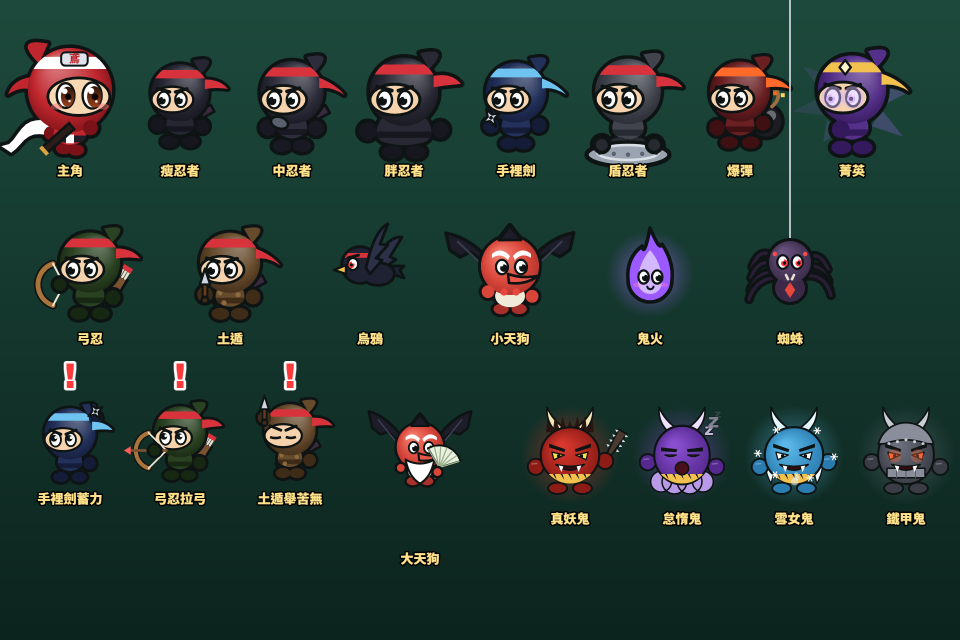
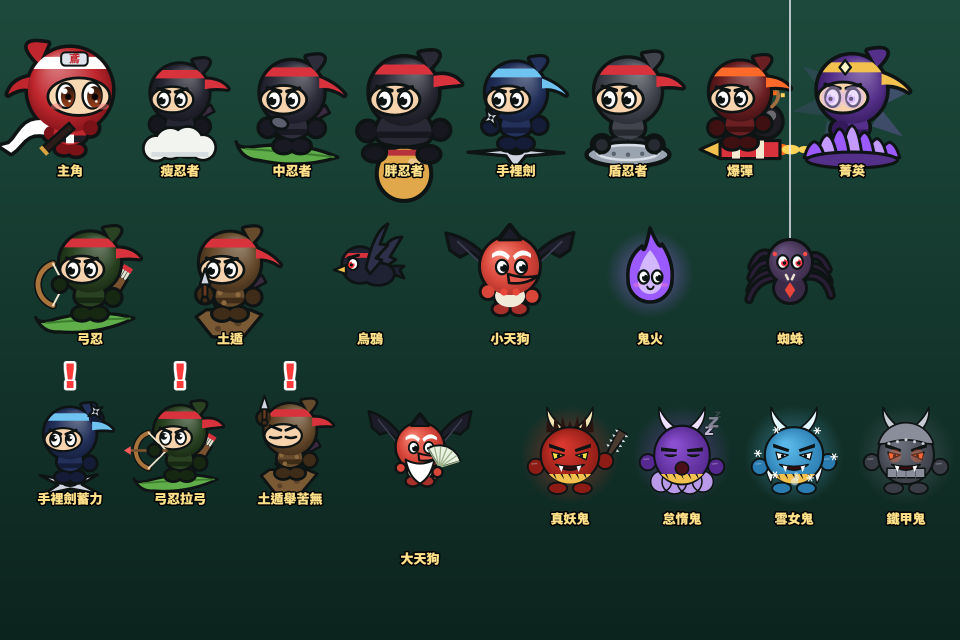
敵忍者改用乘坐物＋依移動方向傾斜（v22）：瘦忍者踩雲、中忍者與弓忍踩竹葉、胖忍者坐葫蘆、手裡劍忍者站旋轉大手裡劍、爆彈忍者騎火箭、菁英坐紫焰蓮台、土遁站土塊；左右飄時身體往移動方向傾斜，快速移動留殘影；附移動方式比較頁

diff --git a/art.js b/art.js
@@ -49,12 +49,84 @@ function foeEye(c, x, y, rx, ry, P, warn, blink, glow) {
   aCirc(c, x - rx * .05, y - ry * .3, rx * .26); c.fillStyle = '#fff'; c.fill();
   c.restore();
 }
+// 敵忍者的移動方式（walk = 舊的擺腳）
+// ride 乘坐物、levit 忍術懸浮、kite 抓風箏、rope 垂繩；FOE_TILT 依移動方向傾斜
+let FOE_MOVE = 'ride', FOE_TILT = true;   // 遊戲採用方案 A＋E；其餘方式保留給 design/enemy-move.html 比較
+const FOE_RIDE = { 0: 'cloud', 1: 'leaf', 2: 'gourd', 3: 'star', 5: 'rocket', 6: 'lotus', 9: 'leaf', 11: 'rock' };
+function foeRideBack(c, kind, t, fl) {
+  const W2 = fl ? '#fff' : null;
+  if (kind === 'leaf') {
+    c.save(); c.translate(0, 23.5); c.rotate(Math.sin(t * 3) * .08);
+    c.beginPath(); c.moveTo(-22, 1); c.quadraticCurveTo(-4, -6, 20, -1); c.quadraticCurveTo(26, 0, 27, -3); c.quadraticCurveTo(24, 5, 16, 5); c.quadraticCurveTo(-4, 8, -22, 1); c.closePath(); aFI(c, W2 || '#5fae4a', 1.6);
+    if (!fl) { c.beginPath(); c.moveTo(-20, 1); c.quadraticCurveTo(0, 0, 22, 0); c.strokeStyle = '#3e7d30'; c.lineWidth = 1; c.stroke(); }
+    c.restore();
+  } else if (kind === 'gourd') {
+    aCirc(c, 0, 15, 8.5); aFI(c, W2 || '#e0a84a', 1.8);
+    aCirc(c, 0, 31, 12); aFI(c, W2 || '#e0a84a', 1.8);
+    if (!fl) { aEll(c, -5, 27, 3.5, 2.4, -.5); c.fillStyle = 'rgba(255,255,255,.35)'; c.fill(); c.fillStyle = '#b8323c'; c.fillRect(-7, 20.5, 14, 2.6); }
+  } else if (kind === 'star') {
+    c.save(); c.translate(0, 25); c.scale(1, .34); c.rotate(t * 6);
+    c.beginPath(); for (let i = 0; i < 8; i++) { const r = i % 2 ? 7 : 24, a = i * Math.PI / 4; c.lineTo(Math.cos(a) * r, Math.sin(a) * r); } c.closePath();
+    c.fillStyle = W2 || '#cfd6e2'; c.fill(); c.restore();
+    c.save(); c.translate(0, 25); c.scale(1, .34); c.rotate(t * 6);
+    c.beginPath(); for (let i = 0; i < 8; i++) { const r = i % 2 ? 7 : 24, a = i * Math.PI / 4; c.lineTo(Math.cos(a) * r, Math.sin(a) * r); } c.closePath(); c.restore(); aInk(c, 1.6);
+    c.save(); c.translate(0, 25); c.scale(1, .34); aCirc(c, 0, 0, 4); c.restore(); c.fillStyle = INK; c.fill();
+  } else if (kind === 'rocket') {
+    if (!fl) for (let i = 0; i < 3; i++) { const fx = -24 - i * 5 - Math.sin(t * 30 + i) * 2; c.fillStyle = i ? '#ffd25a' : '#ff6a1a'; aEll(c, fx + 3, 24, 6 - i * 1.5, 3 - i * .6); c.fill(); }
+    c.beginPath(); c.rect(-20, 19.5, 30, 9); aFI(c, W2 || '#d8323c', 1.6);
+    c.beginPath(); c.moveTo(10, 19.5); c.lineTo(20, 24); c.lineTo(10, 28.5); c.closePath(); aFI(c, W2 || '#f2c14e', 1.5);
+    if (!fl) { c.fillStyle = '#f4ead2'; c.fillRect(-12, 19.5, 4, 9); c.fillRect(0, 19.5, 4, 9); }
+  } else if (kind === 'rock') {
+    c.beginPath(); c.moveTo(-16, 21); c.lineTo(-10, 18.5); c.lineTo(12, 18.5); c.lineTo(17, 22); c.lineTo(9, 32); c.lineTo(-6, 33); c.closePath(); aFI(c, W2 || '#7a5a34', 1.6);
+    if (!fl) { c.fillStyle = '#5a4026'; aCirc(c, -4, 25, 1.8); c.fill(); aCirc(c, 6, 28, 1.5); c.fill(); }
+  }
+}
+function foeRideFront(c, kind, t, fl) {
+  if (kind === 'cloud') {
+    const pf = [[-12, 23, 6], [-4, 21, 7.5], [5, 21.5, 7.5], [12.5, 23.5, 6]];
+    heroSilhouette(c, [{ path: c => { c.beginPath(); for (const [x, y, r] of pf) { c.moveTo(x + r, y + Math.sin(t * 3 + x) * .6); c.arc(x, y + Math.sin(t * 3 + x) * .6, r, 0, TAU); } }, fill: fl ? '#fff' : '#f2f4ef' }], 1.4);
+    if (!fl) { c.fillStyle = '#d6dde0'; c.fillRect(-15, 26, 30, 2.5); }
+  } else if (kind === 'lotus') {
+    for (let i = -3; i <= 3; i++) {
+      const x = i * 5.5, h = 10 - Math.abs(i) * 1.6 + Math.sin(t * 8 + i) * 1.5;
+      c.beginPath(); c.moveTo(x - 4.5, 25); c.quadraticCurveTo(x - 3, 23 - h, x, 22 - h); c.quadraticCurveTo(x + 3, 23 - h, x + 4.5, 25); c.closePath();
+      aFI(c, fl ? '#fff' : i % 2 ? '#9a5aff' : '#c49aff', 1.3);
+    }
+    aEll(c, 0, 26, 20, 3.5); aFI(c, fl ? '#fff' : '#55308a', 1.4);
+  }
+}
+// 忍術懸浮：腳下的氣流（back = 後半圈）
+function foeSwirl(c, t, back) {
+  c.lineCap = 'round';
+  for (let i = 0; i < 3; i++) {
+    const a = t * 7 + i * 2.1, a0 = back ? Math.PI + a % .6 : a % .6;
+    c.strokeStyle = `rgba(230,245,255,${.6 - i * .15})`; c.lineWidth = 2 - i * .4;
+    c.beginPath(); c.ellipse(0, 24 + i * 2.5, 15 - i * 2, 4 - i * .6, 0, a0, a0 + 2.4); c.stroke();
+  }
+}
+// 忍者風箏：頭頂上方，隨傾斜擺動；兩條線連到手上
+function foeKite(c, t, fl, h1, h2, look = 1) {
+  const sway = Math.sin(t * 2.2) * .18, kx = Math.sin(t * 2.2) * 4, ky = -50;
+  for (const h of [h1, h2]) { c.beginPath(); c.moveTo(h[0], h[1]); c.lineTo(kx + (h[0] > 0 ? 9 : -9), ky + 14); c.strokeStyle = 'rgba(240,240,240,.8)'; c.lineWidth = .9; c.stroke(); }
+  c.save(); c.translate(kx, ky); c.rotate(sway);
+  c.beginPath(); c.moveTo(0, 14); c.quadraticCurveTo(-5, 22, 2, 28); c.quadraticCurveTo(7, 33, 3, 38); c.strokeStyle = fl ? '#fff' : '#d8323c'; c.lineWidth = 2; c.stroke();   // 尾巴
+  c.beginPath(); if (c.roundRect) c.roundRect(-13, -15, 26, 30, 3); else c.rect(-13, -15, 26, 30); aFI(c, fl ? '#fff' : '#f4ead2', 1.8);
+  if (!fl) {
+    c.strokeStyle = '#d8323c'; c.lineWidth = 2; c.strokeRect(-10.5, -12.5, 21, 25);
+    c.strokeStyle = 'rgba(122,82,48,.6)'; c.lineWidth = 1; c.beginPath(); c.moveTo(-12, -14); c.lineTo(12, 14); c.moveTo(12, -14); c.lineTo(-12, 14); c.stroke();
+    c.save(); c.scale(look, 1); c.fillStyle = INK; c.font = '900 15px sans-serif'; c.textAlign = 'center'; c.textBaseline = 'middle'; c.fillText('忍', 0, 1); c.restore();
+  }
+  c.restore();
+}
 function drawFoeNinja(type, t, e, look, near) {
   const c = ctx, ed = ENEMY[type], fl = e && e.flash > 0, P = fl ? WHITE_PAL : FOE[type];
   const u = ed.h / 44, fat = type === 2, warn = e && e.warn, atk = e && e.atk > 0;
   const seed = e ? e.bx || 0 : 0, bob = Math.sin(t * 5 + seed) * 1.4;
-  c.save(); c.scale(u * look, u); c.translate(0, bob);
-  const sw = Math.sin(t * 4 + seed) * 1.6, hb = Math.sin(t * 5 + seed + 1.5) * 1.3;
+  const MV = type === 4 ? 'walk' : FOE_MOVE, ride = MV === 'ride' ? FOE_RIDE[type] : null;
+  c.save();
+  if (FOE_TILT && e && e.tilt) c.rotate(e.tilt * .32);   // 往移動方向傾斜
+  c.scale(u * look, u); c.translate(0, bob);
+  const sw = MV === 'walk' ? Math.sin(t * 4 + seed) * 1.6 : MV === 'kite' || MV === 'rope' ? Math.sin(t * 3 + seed) * .8 : 0, hb = Math.sin(t * 5 + seed + 1.5) * 1.3;
   const alarm = near && type !== 6 && type !== 4 && !warn;
   const HY = -5, R = 15, BT = fat ? 7 : 8.5, BB = fat ? 18 : 16.5;
   const wTop = fat ? 10 : 6.5, wMid = fat ? 14.5 : 8.5, wBot = fat ? 9.5 : 5;
@@ -96,10 +168,23 @@ function drawFoeNinja(type, t, e, look, near) {
   if (type === 11) fa = warn ? [15, -12] : [12.5, 11 + hb];                                  // 土遁：舉起苦無
   let bowA = 0;
   if (type === 9) { bowA = e && g && g.p ? clamp(Math.atan2((g.p.y - 20) - e.y, Math.abs(g.p.x - e.x)), -1.1, 1.1) : 0; fa = [6 + Math.cos(bowA) * 9, 6 + Math.sin(bowA) * 9]; }
+  // 依移動方式調整手腳
+  const free = type === 0 || type === 1 || type === 2 || type === 5;   // 手上沒有武器
+  if (MV !== 'walk') { ff = [fat ? 5.5 : 4, fat ? 21.5 : 20.5]; bf = [-ff[0], ff[1]]; }
+  if (ride === 'gourd') { ff = [13, 22]; bf = [-11, 22.5]; }
+  if (ride === 'lotus' || MV === 'levit') { ff = [3.5, 20]; bf = [-3.5, 20.5]; }                 // 盤腿
+  if (MV === 'levit' && free) { fa = [3.5, 10.5]; ba = [-1.5, 10]; }                             // 雙手結印
+  if (MV === 'kite') { ff = [3 + sw, 21.5]; bf = [-3 - sw, 22]; ba = [-9, -21]; if (free || type === 6) fa = [9, -21]; }
+  if (MV === 'rope') { ff = [2.5 + sw, 21.5]; bf = [-1.5 - sw, 22.5]; ba = [-4, -21]; if (free || type === 6) fa = [-4, -27]; }
+  // 身後的東西：繩子、風箏、乘坐物、氣流
+  if (MV === 'rope') { c.beginPath(); c.moveTo(-4, -260); c.lineTo(-4, 10); c.strokeStyle = INK; c.lineWidth = 3.4; c.stroke(); c.strokeStyle = fl ? '#fff' : '#c9a46a'; c.lineWidth = 1.8; c.stroke(); }
+  if (MV === 'kite') foeKite(c, t, fl, ba, fa, look);
+  if (ride) foeRideBack(c, ride, t, fl);
+  if (MV === 'levit') foeSwirl(c, t, true);
   // --- 身體、頭、手套、鞋子：先描黑邊再填色（不會有關節接縫） ---
   const fw = Math.sin(t * 9 + seed) * 2.5, belt = BT + (BB - BT) * .5;
   const parts = [];
-  if (type !== 6) parts.push({ path: c => aCirc(c, ba[0], ba[1], GR * .95), fill: P.dk });
+  if (type !== 6 || MV === 'kite' || MV === 'rope') parts.push({ path: c => aCirc(c, ba[0], ba[1], GR * .95), fill: P.dk });
   parts.push({ path: c => aEll(c, bf[0], bf[1], FR[0], FR[1]), fill: P.dk });
   parts.push({ path: c => { c.beginPath(); c.moveTo(-wTop, BT); c.quadraticCurveTo(0, BT - 4, wTop, BT); c.quadraticCurveTo(wMid, BT + (BB - BT) * .63, wBot, BB - 1); c.quadraticCurveTo(0, BB + 2, -wBot, BB - 1); c.quadraticCurveTo(-wMid, BT + (BB - BT) * .63, -wTop, BT); c.closePath(); }, fill: P.suit,
     after: c => { c.save(); c.clip(); c.fillStyle = P.dk; c.fillRect(-wMid - 2, belt, wMid * 2 + 4, 2.8);
@@ -115,6 +200,8 @@ function drawFoeNinja(type, t, e, look, near) {
       c.fillStyle = P.band; c.fillRect(-R - 1, HY - 12, R * 2 + 2, 4.4); c.restore(); } });
   if (type !== 9) parts.push({ path: c => aCirc(c, fa[0], fa[1], GR), fill: P.dk });
   heroSilhouette(c, parts, 1.6);
+  if (ride) foeRideFront(c, ride, t, fl);
+  if (MV === 'levit') foeSwirl(c, t, false);
   // 頭巾結的顏色（蓋在頭巾結上）
   c.beginPath(); c.moveTo(-13, HY - 7); c.quadraticCurveTo(-21, HY - 6 + fw, -25, HY - 1 + fw); c.quadraticCurveTo(-19, HY - 3, -13, HY - 2); c.closePath(); c.fillStyle = P.band; c.fill();
   if (type === 1 && !fl) { aEll(c, 6, 9.5, 4.2, 2.8, -.3); aFI(c, P.guard, 1.3); }                            // 肩甲
@@ -301,7 +388,10 @@ function drawEnemy(x, y, type, s = 1, t = 0, e = null) {
   const look = e && e.look ? e.look : e && g && g.p ? (Math.sign(g.p.x - x) || 1) : 1;
   const near = e && g && g.p ? Math.hypot(g.p.x - x, g.p.y - 20 - y) < 110 : false;
   ctx.save(); ctx.translate(x, y); ctx.scale(s, s);
-  if (FOE[type]) drawFoeNinja(type, t, e, look, near);
+  if (FOE[type]) {
+    if (FOE_TILT && !fl && Math.abs(e && e.sv || 0) > 90) for (let k = 3; k >= 1; k--) { ctx.save(); ctx.globalAlpha *= .12 * (4 - k); ctx.translate(-e.sv * .035 * k / s, 0); drawFoeNinja(type, t, e, look, near); ctx.restore(); }   // 快速移動的殘影
+    drawFoeNinja(type, t, e, look, near);
+  }
   else if (type === 7) drawCrow(t, e, fl);
   else if (type === 8) drawTengu(t, e, fl, false);
   else if (type === 13) drawTengu(t, e, fl, true);

diff --git a/design/enemy-move.html b/design/enemy-move.html
@@ -1,0 +1,60 @@
+<!doctype html>
+<meta charset="utf-8">
+<title>敵忍者移動方式提案</title>
+<style>html, body { margin: 0; background: #0f2a26; } canvas { display: block; }</style>
+<canvas id="cv"></canvas>
+<script>
+const cv = document.getElementById('cv'), ctx = cv.getContext('2d');
+const INK = '#0e1414', g = null;
+const clamp = (v, a, b) => Math.max(a, Math.min(b, v));
+const SKINS = [{ n: '鳶', suit: '#c0262d', dark: '#7a1218', band: '#ffffff' }];
+const ENEMY = [
+  { w: 34, h: 42 }, { w: 42, h: 46 }, { w: 56, h: 50 }, { w: 38, h: 44 }, { w: 44, h: 48 }, { w: 40, h: 44 }, { w: 46, h: 50 },
+  { w: 30, h: 22 }, { w: 34, h: 34 }, { w: 38, h: 44 }, { w: 28, h: 30 }, { w: 40, h: 44 }, { w: 34, h: 30 }, { w: 72, h: 72 },
+];
+function txt(s, x, y, size, col, align = 'left', stroke, sw = 0) {
+  ctx.font = `900 ${size}px sans-serif`; ctx.textAlign = align; ctx.textBaseline = 'middle';
+  if (stroke) { ctx.strokeStyle = stroke; ctx.lineWidth = sw; ctx.lineJoin = 'round'; ctx.strokeText(s, x, y); }
+  ctx.fillStyle = col; ctx.fillText(s, x, y);
+}
+</script>
+<script src="../art.js"></script>
+<script>
+'use strict';
+const M = new URLSearchParams(location.search).get('m') || 'ride';
+const INFO = {
+  walk:  ['目前　擺腳', '停在半空中、雙腳前後擺動，看起來像在空氣上走路（對照用）'],
+  ride:  ['方案 A　各自乘坐一樣東西', '瘦：雲朵　中：竹葉　胖：坐葫蘆　手裡劍：旋轉的大手裡劍　爆彈：騎火箭　菁英：紫焰蓮台。每種一眼就能分辨'],
+  levit: ['方案 B　忍術懸浮', '雙腳盤起、空手的忍者雙手結印，腳下有一圈旋轉的氣流。全部一致，像在施展忍術'],
+  kite:  ['方案 C　抓著忍者風箏', '頭上撐著寫「忍」字的大風箏，雙腳懸空輕輕晃，配合原本左右來回飄的移動'],
+  rope:  ['方案 D　垂繩吊著', '從畫面上方垂下繩子，雙手抓繩、腳懸空，左右飄時像鐘擺（和蜘蛛的動作相近）'],
+  tilt:  ['方案 E　依移動方向傾斜（以 A 為例）', '往哪邊飄就往哪邊斜，快速移動時身後留下殘影。可以和 A～D 任何一種搭配'],
+};
+FOE_MOVE = M === 'tilt' ? 'ride' : M; FOE_TILT = M === 'tilt';
+const CW = 960, CH = 640, DPR = 2;
+cv.width = CW * DPR; cv.height = CH * DPR; cv.style.width = CW + 'px'; cv.style.height = CH + 'px';
+ctx.scale(DPR, DPR);
+const bg = ctx.createLinearGradient(0, 0, 0, CH); bg.addColorStop(0, '#1d4a3c'); bg.addColorStop(1, '#0c241e'); ctx.fillStyle = bg; ctx.fillRect(0, 0, CW, CH);
+for (let i = 0; i < 9; i++) { ctx.fillStyle = 'rgba(80,160,110,.14)'; ctx.fillRect(30 + i * 115 + (i % 2) * 30, 0, 14, CH); }
+const [name, desc] = INFO[M];
+txt(name, 30, 34, 28, '#ffe28a', 'left', '#000', 4);
+txt(desc, 30, 72, 15, '#d6e6df', 'left');
+const T = .45, NAMES = ['瘦忍者', '中忍者', '胖忍者', '手裡劍', '', '爆彈', '菁英'];
+const TYPES = [0, 1, 2, 3, 5, 6];
+function foe(ty, x, y, s, i, extra) { drawEnemy(x, y, ty, s, T + i * .7, Object.assign({ look: -1, bx: i * 3 }, extra)); }
+// 大圖：六種忍者
+TYPES.forEach((ty, i) => {
+  const x = 95 + i * 154, y = 270, tl = M === 'tilt' ? (i % 2 ? 1 : -1) : 0;
+  if (M === 'tilt' && i % 3 === 0) for (let k = 3; k >= 1; k--) { ctx.save(); ctx.globalAlpha = .13 * (4 - k); foe(ty, x - tl * k * 16, y, 2.4, i, { tilt: tl }); ctx.restore(); }
+  foe(ty, x, y, 2.4, i, { tilt: tl });
+  txt(NAMES[ty], x, 395, 15, '#ffe28a', 'center', '#000', 3);
+  if (M === 'tilt') txt(tl > 0 ? '往右飄 →' : '← 往左飄', x, 418, 12, 'rgba(255,255,255,.6)', 'center');
+});
+// 遊戲中實際大小：配上雲朵地板與主角
+ctx.fillStyle = 'rgba(0,0,0,.28)'; ctx.beginPath(); ctx.roundRect(24, 440, 912, 180, 16); ctx.fill();
+txt('遊戲中實際大小', 40, 458, 13, 'rgba(255,255,255,.6)', 'left');
+for (const [px, py] of [[140, 600], [450, 560], [780, 600]]) { ctx.fillStyle = '#eef3e6'; ctx.beginPath(); ctx.roundRect(px - 36, py, 72, 10, 5); ctx.fill(); }
+drawHeroNinja(450, 560, { face: 1, t: T, vy: 0, skin: 0 });
+ctx.save(); ctx.beginPath(); ctx.roundRect(24, 440, 912, 180, 16); ctx.clip();
+TYPES.forEach((ty, i) => foe(ty, [80, 200, 320, 580, 710, 850][i], 515 + (i % 2) * 24, 1, i, { tilt: M === 'tilt' ? (i % 2 ? 1 : -1) : 0 }));
+</script>

diff --git a/game.js b/game.js
@@ -232,7 +232,7 @@ function musicFor() {
 function vib(ms) { if (save.opt.vib && navigator.vibrate) try { navigator.vibrate(ms); } catch (e) { } }
 
 // ===== 畫面尺寸 =====
-const APP_VER = 'v21';   // 顯示在設定頁的診斷資訊，方便對照手機上跑的是哪一版
+const APP_VER = 'v22';   // 顯示在設定頁的診斷資訊，方便對照手機上跑的是哪一版
 const IS_IOS = /iP(hone|ad|od)/.test(navigator.userAgent) || (navigator.platform === 'MacIntel' && navigator.maxTouchPoints > 1);
 // 是否從主畫面以 App 方式開啟（不同 iOS 版本回報方式不同，三種都看）
 const isAppMode = () => navigator.standalone === true || matchMedia('(display-mode: standalone)').matches || matchMedia('(display-mode: fullscreen)').matches;
@@ -519,8 +519,11 @@ function enemyAI(e, ed, dt) {
   }
   if (e.type === 11) earthCheck(e);
   // 其餘：原地左右巡邏
+  const ox = e.x;
   if (e.type === 12) e.x = clamp(e.bx + Math.sin(e.ph * 1.6) * e.amp, WALL + ed.w / 2, W - WALL - ed.w / 2);   // 蜘蛛擺盪
   else e.x = clamp(e.bx + Math.sin(e.ph * (e.affix === 'fast' ? 2.6 : 1.3)) * e.amp, WALL + ed.w / 2, W - WALL - ed.w / 2);
+  // 畫圖用：左右飄的速度 → 身體往移動方向傾斜、快的時候留殘影
+  if (dt > 0) { e.sv = (e.x - ox) / dt; e.tilt = (e.tilt || 0) + (clamp(e.sv / 80, -1, 1) - (e.tilt || 0)) * Math.min(1, dt * 6); }
   if (!onScreen) return;
   e.thr -= dt;
   e.warn = e.thr < .45;

diff --git a/sw.js b/sw.js
@@ -1,5 +1,5 @@
 // 離線快取：網路優先（拿到新版就更新快取），離線時才用快取
-const CACHE = 'tobi-v21';
+const CACHE = 'tobi-v22';
 const FILES = ['./', 'index.html', 'style.css', 'lang.js', 'music.js', 'art.js', 'game.js', 'manifest.webmanifest', 'icon.svg', 'assets/hero.png', 'assets/logo.webp', 'assets/icon-180.png', 'assets/icon-192.png'];
 self.addEventListener('install', e => { e.waitUntil(caches.open(CACHE).then(c => c.addAll(FILES))); self.skipWaiting(); });
 self.addEventListener('activate', e => {
